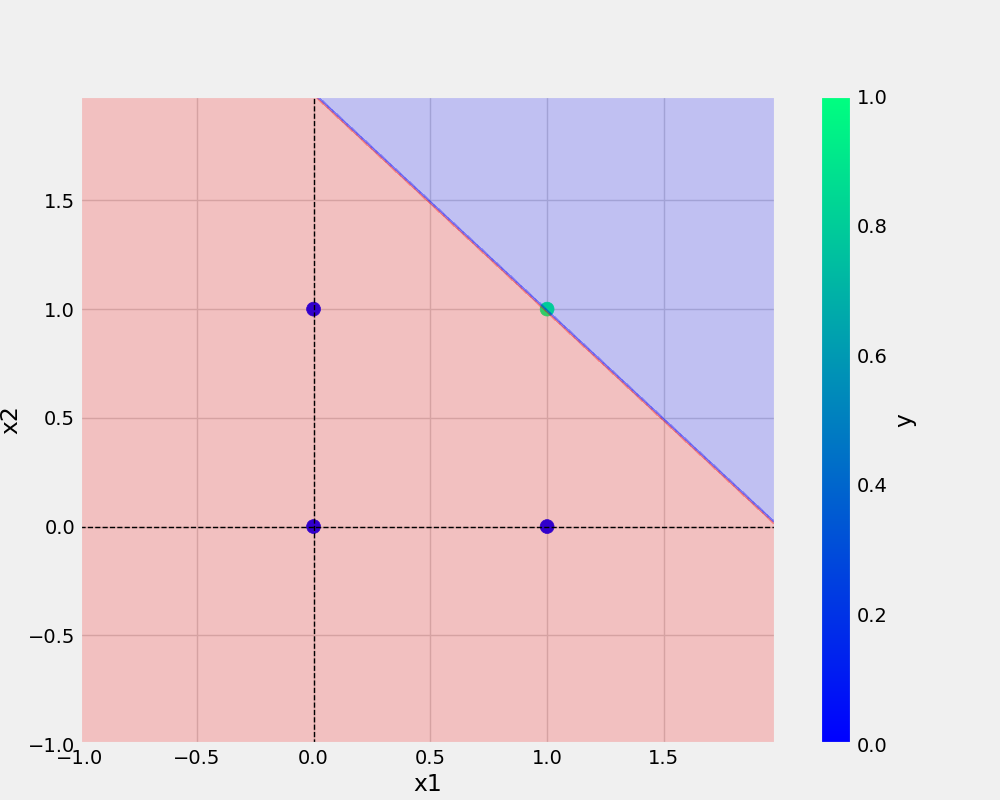
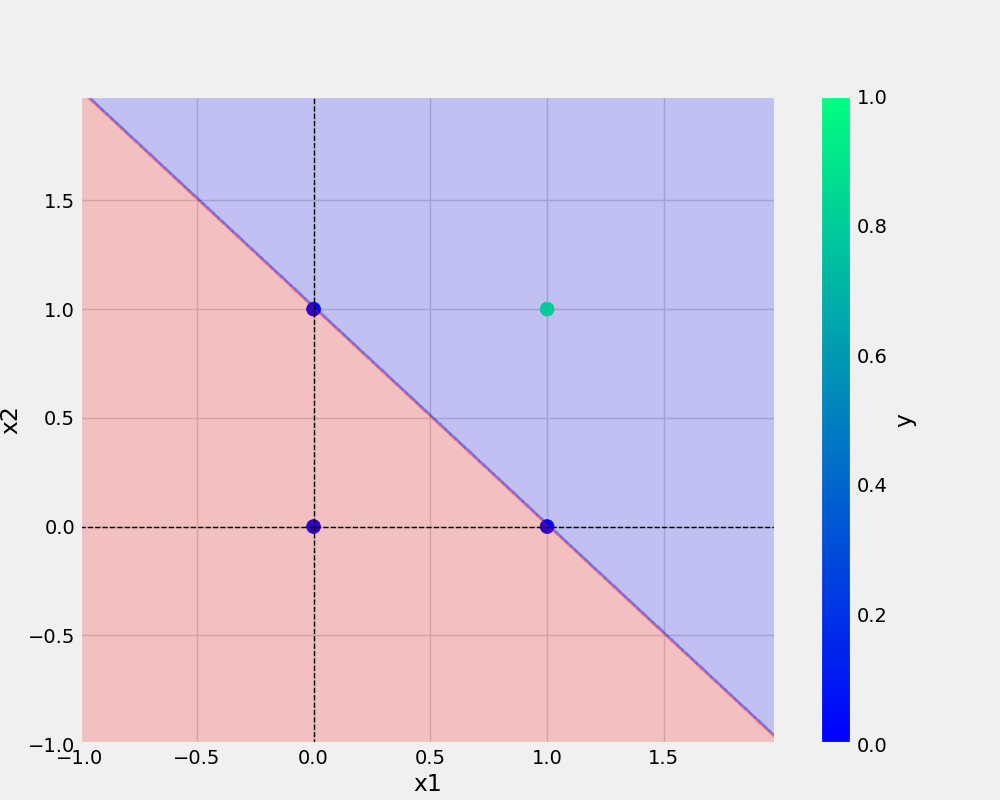
add and or are made as functionwise and organised

Changed region(s): [[0.093, 0.125, 0.775, 0.9375]]

diff --git a/and.py b/and.py
@@ -3,27 +3,27 @@ from utils.all_utils import prepare_data, save_model, save_plot
 import pandas as pd
 import numpy as np
 
+def main(data, eta, epochs, modelfilename,plotfilename):
+    df = pd.DataFrame(data)
+    print(df)
+    X,y = prepare_data(df)
+    model = Perceptron(eta=eta, epochs=epochs)
+    model.fit(X, y)
 
-AND = {
-    "x1": [0,0,1,1],
-    "x2": [0,1,0,1],
-    "y": [0,0,0,1],
-}
+    _ = model.total_loss()
 
-df_AND = pd.DataFrame(AND)
+    save_model(model, filename=modelfilename)
+    save_plot(df, file_name=plotfilename, model=model)
 
-print(df_AND)
-
-
-X,y = prepare_data(df_AND)
-
-ETA = 0.3 # 0 and 1
-EPOCHS = 10
-
-model_AND = Perceptron(eta=ETA, epochs=EPOCHS)
-model_AND.fit(X, y)
-
-_ = model_AND.total_loss()
-
-save_model(model_AND, filename="and.model")
-save_plot(df_AND, file_name="and.png", model=model_AND)
+if __name__=="__main__": # << entry point <<
+    AND = {
+        "x1": [0,0,1,1],
+        "x2": [0,1,0,1],
+        "y": [0,0,0,1],
+    }
+    
+    ETA = 0.3 # 0 and 1
+    EPOCHS = 10
+    
+    main(data=AND, eta=ETA, epochs=EPOCHS, modelfilename="and.model", plotfilename="and.png")
+    

diff --git a/or.py b/or.py
@@ -1,0 +1,30 @@
+from utils.model import Perceptron
+from utils.all_utils import prepare_data, save_model, save_plot
+import pandas as pd
+import numpy as np
+
+def main(data, eta, epochs, modelfilename,plotfilename):
+    df = pd.DataFrame(data)
+    print(df)
+    X,y = prepare_data(df)
+    model = Perceptron(eta=eta, epochs=epochs)
+    model.fit(X, y)
+
+    _ = model.total_loss()
+
+    save_model(model, filename=modelfilename)
+    save_plot(df, file_name=plotfilename, model=model)
+
+if __name__=="__main__": # << entry point <<
+    OR = {
+        "x1": [0,0,1,1],
+        "x2": [0,1,0,1],
+        "y": [0,1,1,1],
+    }
+    
+    ETA = 0.3 # 0 and 1
+    EPOCHS = 10
+    
+    main(data=OR, eta=ETA, epochs=EPOCHS, modelfilename="or.model", plotfilename="or.png")
+    
+    
